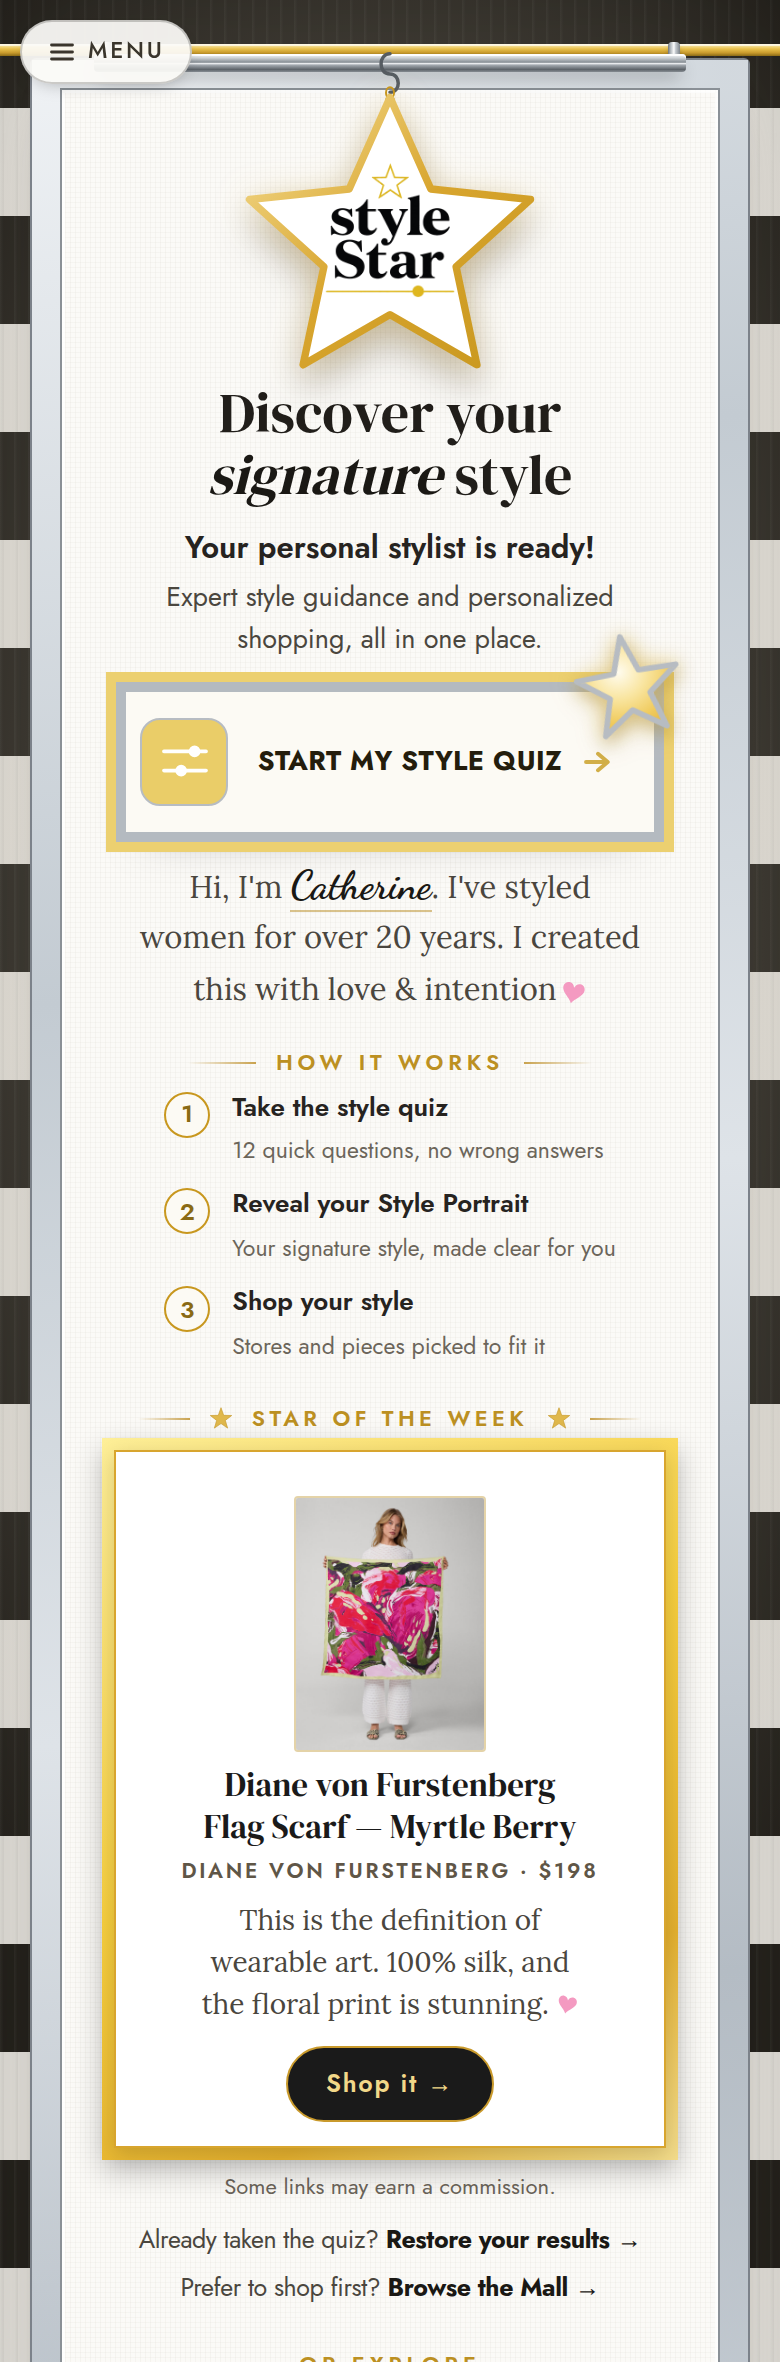
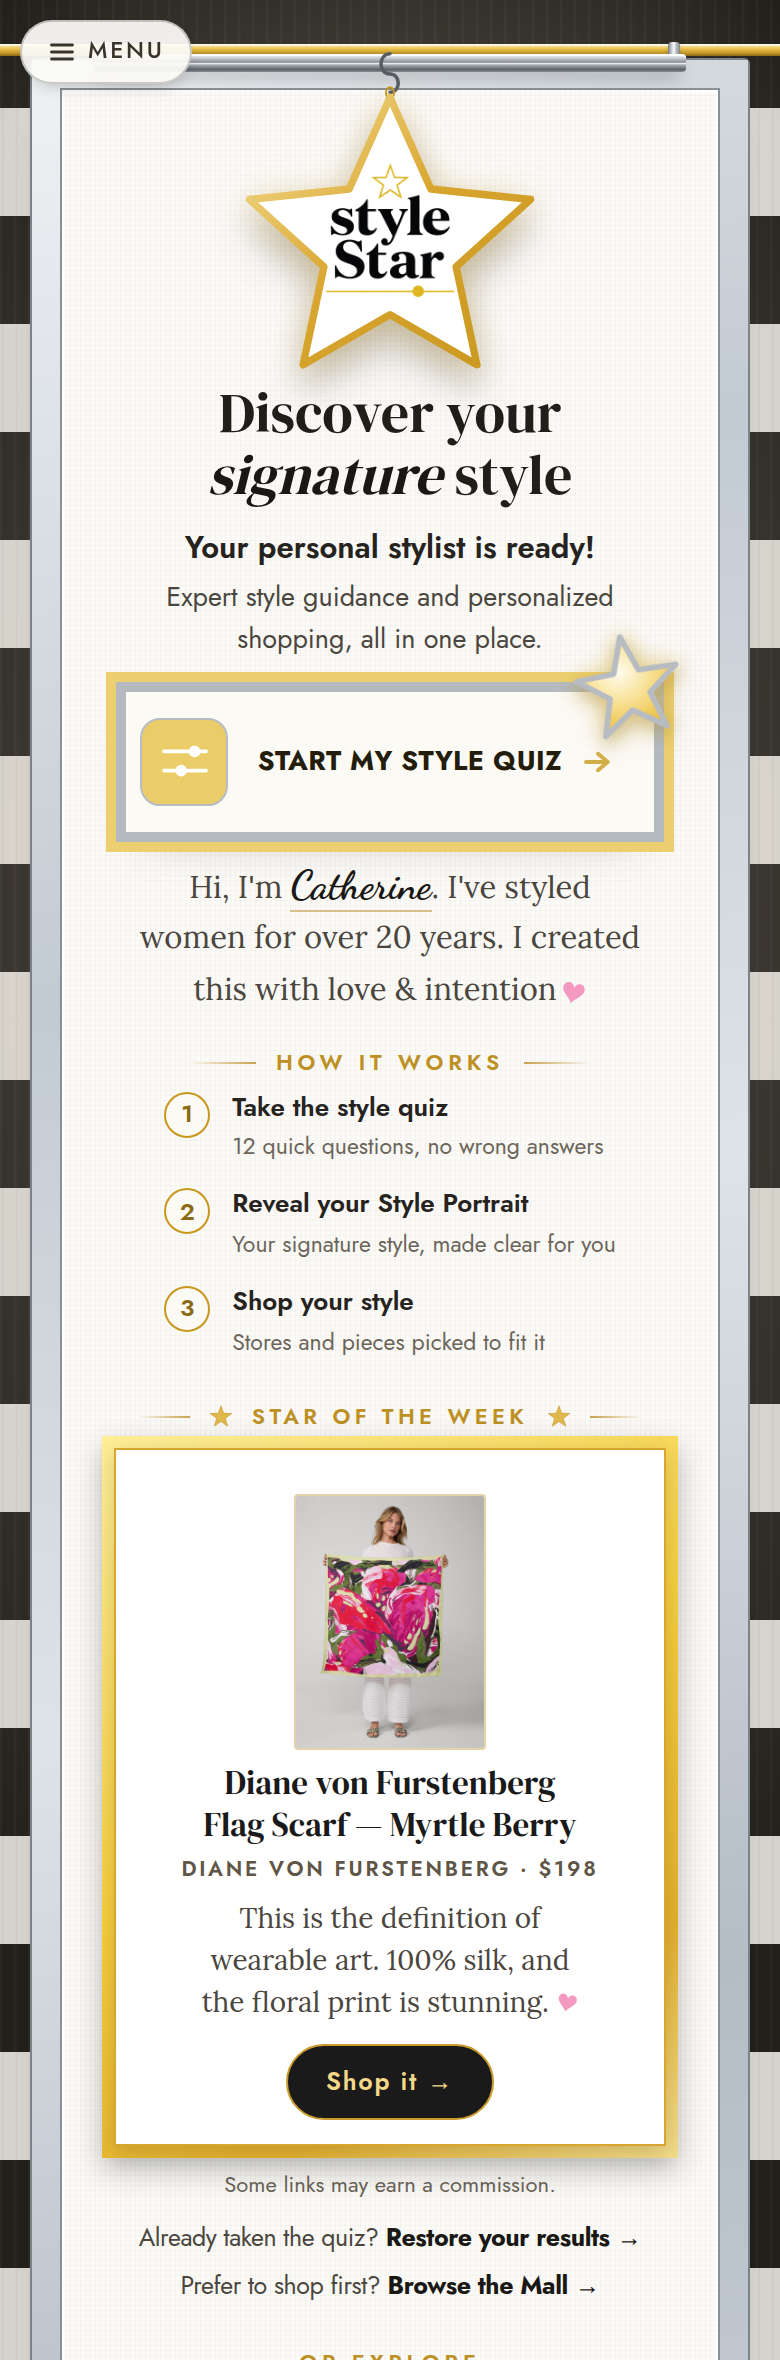
Fix the stranded "you" on How It Works step 2 at narrow widths (her catch)
Her catch on the 320px render: "the 'you' is all alone on the next line."
Real, and PRE-EXISTING -- it is on the live site today; the Discovery Star
render is simply the first time that width got looked at closely.

THE FIX IS text-wrap:balance, her standing widow lever. At 320 step 2's sub goes
[6,1] -> [3,4]. Every other sub at every width is byte-identical: 390/375/360
all stay one line, and steps 1 and 3 never change at any width. The font is
deliberately NOT shrunk -- readability beats an even list on an 18-80 audience,
and this is the screen a stranger meets first.

⚠ display:block IS WHAT MAKES IT WORK. text-wrap:balance does nothing on inline
text, so the span had to become a block first -- the same lesson as the A2HS
whisper and the wardrobe closing line.

⚠⚠ AND THAT QUIETLY BROKE SOMETHING ELSE, which is the finding worth keeping.
Turning the span into a block TIGHTENED ALL THREE ROWS BY 6px AND PULLED THE
WHOLE PAGE UP 19px. Not a margin anywhere: as an inline, the text sat in an
ANONYMOUS BLOCK BOX whose line box was sized by the parent's inherited STRUT
(~23px), not by its own 1.45 line-height (~17px). Making it a block dropped that
invisible leading. ▶ margin:3px 0 puts it back exactly: rows measure 40px again
at 390/375/360, identical to before, and the Star's top returns to 702 from 703.
▶ THE RULE, and it is the third time this family has bitten (the 2026-08-18
sign-off gaps, the trailing-space one beside it): WHEN A GAP MOVES AND NO MARGIN
[…]

diff --git a/scratchpad/hiwcheck.js b/scratchpad/hiwcheck.js
@@ -20,7 +20,11 @@ const browser = await chromium.launch({ executablePath: '/opt/pw-browsers/chromi
 let fails = 0, checks = 0;
 const ok = (name, cond, extra) => { checks++; console.log((cond?'PASS ':'FAIL ')+name+(extra?'  ['+extra+']':'')); if(!cond) fails++; };
 
-for (const w of [390, 360]) {
+// 320 added 2026-08-21, her catch: at Display Zoom width step 2's sub wrapped
+// with "you" stranded alone on line two. It genuinely cannot hold one line
+// there, so the bar at 320 is BALANCED, not unwrapped -- and the font is
+// deliberately not shrunk (readability beats an even list, 18-80 audience).
+for (const w of [390, 375, 360, 320]) {
   const ctx = await browser.newContext({ viewport: { width: w, height: 844 } });
   const page = await ctx.newPage();
   const errors = [];
@@ -36,6 +40,19 @@ for (const w of [390, 360]) {
     return {
       head: b.textContent, sub: s.textContent,
       headLines: lines(b), subLines: lines(s),
+      // words on the LAST visual line -- a widow is what she actually sees, and
+      // a line count alone cannot tell a balanced wrap from a stranded word.
+      lastLineWords: (() => {
+        const node = s.firstChild, txt = s.textContent, ws = txt.trim().split(/\s+/);
+        const rng = document.createRange(); const rows = []; let idx = 0;
+        for (const wd of ws) { const st = txt.indexOf(wd, idx); rng.setStart(node, st); rng.setEnd(node, st + wd.length);
+          const t = Math.round(rng.getBoundingClientRect().top);
+          let L = rows.find(x => Math.abs(x.top - t) <= 6); if (!L) { L = { top: t, n: 0 }; rows.push(L); } L.n++; idx = st + wd.length; }
+        rows.sort((a, b2) => a.top - b2.top); return rows[rows.length - 1].n; })(),
+      balance: getComputedStyle(s).textWrap || getComputedStyle(s).textWrapStyle,
+      disp: getComputedStyle(s).display,
+      subMargin: [getComputedStyle(s).marginTop, getComputedStyle(s).marginBottom].join('/'),
+      rowH: Math.round(row2.getBoundingClientRect().height),
       visible: row2.getBoundingClientRect().height > 0,
       docOverflow: document.documentElement.scrollWidth > document.documentElement.clientWidth,
       rowRight: Math.round(row2.getBoundingClientRect().right), vw: document.documentElement.clientWidth
@@ -44,7 +61,19 @@ for (const w of [390, 360]) {
   ok(w+': headline text', r.head === 'Reveal your Style Portrait');
   ok(w+': sub text', r.sub === 'Your signature style, made clear for you');
   ok(w+': headline on one line', r.headLines === 1, r.headLines+' line(s)');
-  ok(w+': sub on one line', r.subLines === 1, r.subLines+' line(s)');
+  ok(w+': sub on one line', w <= 320 || r.subLines === 1, r.subLines+' line(s)');
+  ok(w+': sub never strands a single word', r.lastLineWords >= 2,
+     'last line has '+r.lastLineWords+' word(s)');
+  // ⚠ text-wrap:balance does NOTHING on inline text -- display:block is what
+  // makes it work, and dropping it would silently bring the widow back.
+  ok(w+': the sub is block-level, so balance can apply', r.disp === 'block', r.disp);
+  ok(w+': text-wrap:balance is on', /balance/.test(r.balance), r.balance);
+  // ⚠ The 3px margins put back LEADING that display:block removed: as an
+  // inline this text sat in an anonymous block box sized by the parent's strut.
+  // Without them every row loses 6px and the whole page rides 19px higher --
+  // a spacing change she never asked for, riding in on a widow fix.
+  ok(w+': the restored leading is intact', r.subMargin === '3px/3px', r.subMargin);
+  ok(w+': the row keeps its original height', w <= 320 || r.rowH === 40, r.rowH+'px');
   ok(w+': row visible, no page overflow', r.visible && !r.docOverflow, 'right='+r.rowRight+' vw='+r.vw);
   ok(w+': zero JS errors', errors.length === 0, errors.join(' | '));
   await ctx.close();

diff --git a/index.html b/index.html
@@ -1848,7 +1848,23 @@ body.card-fb{padding:0}
 .hiw-row{display:flex;align-items:flex-start;gap:11px;text-align:left;margin-top:9px}
 .hiw-n{flex:0 0 auto;display:flex;align-items:center;justify-content:center;width:23px;height:23px;border-radius:50%;border:1.3px solid #C8971E;color:#8a6a14;font:600 12px/1 'Jost',sans-serif;background:#FCFAF4}
 .hiw-tx b{display:block;font:600 13px/1.3 'Jost',sans-serif;color:#26231F}
-.hiw-tx span{font:400 11.5px/1.45 'Jost',sans-serif;color:#6b655a}
+/* ⚠ display:block IS WHAT MAKES text-wrap:balance WORK — the property does
+   nothing on inline text, which is why this span had to become a block
+   (the same lesson as the A2HS whisper and the wardrobe closing line).
+   Her catch 2026-08-21: at 320 (Display Zoom) step 2's sub stranded "you"
+   alone on a second line. Balance splits it evenly instead. ▶ The font was
+   deliberately NOT shrunk: readability beats an even list on an 18-80
+   audience, and this is the screen a stranger meets first.
+   ⚠⚠ margin:3px 0 IS NOT COSMETIC — IT PUTS BACK LEADING THAT display:block
+   SILENTLY REMOVED. As an inline, this text sat in an ANONYMOUS BLOCK BOX whose
+   line box was sized by the parent's inherited strut (~23px), not by its own
+   1.45 line-height (~17px). Turning it into a block dropped 6px of invisible
+   air from EVERY row and pulled the whole page up 19px — tightening a screen
+   she had already blessed, as a side effect of a widow fix she asked for.
+   3px above + 3px below restores the row to exactly its old 40px at 390/375/360.
+   ▶ The measurement-trap family again (the 2026-08-18 sign-off lesson): when a
+   gap changes and no margin did, suspect LEADING before you touch margins. */
+.hiw-tx span{display:block;text-wrap:balance;margin:3px 0;font:400 11.5px/1.45 'Jost',sans-serif;color:#6b655a}
 .hm-hair{height:1px;width:34px}
 .hm-hair.l{background:linear-gradient(90deg,transparent,#C9A24E)}
 .hm-hair.r{background:linear-gradient(270deg,transparent,#C9A24E)}
